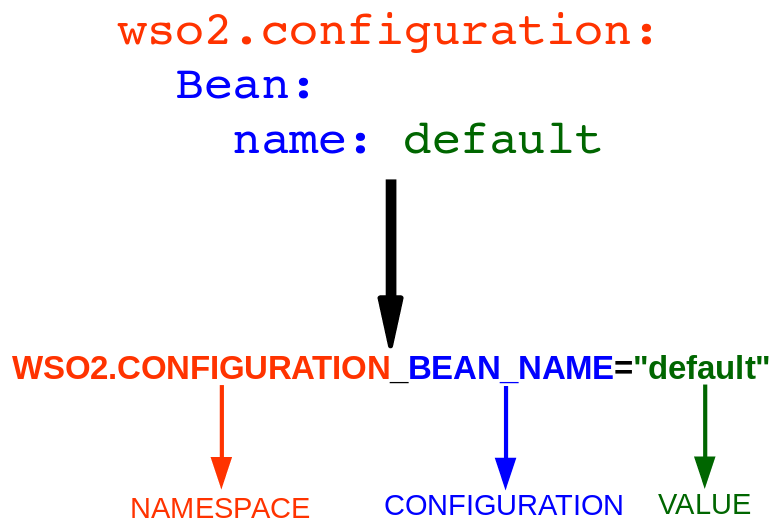
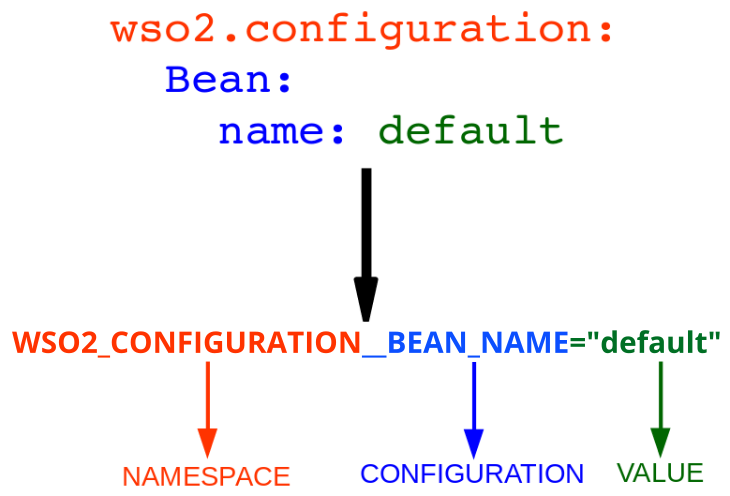
Change the environment variable naming for namespaces. https://github.com/wso2/carbon-config/issues/66

Changed region(s): [[0.0, 0.6351, 0.9945, 0.7258]]

diff --git a/components/org.wso2.carbon.config/src/test/java/org/wso2/carbon/config/configprovider/ConfigProviderImplTest.java b/components/org.wso2.carbon.config/src/test/java/org/wso2/carbon/config/configprovider/ConfigProviderImplTest.java
@@ -53,6 +53,7 @@ public class ConfigProviderImplTest {
     private static final String PASSWORD = "n3wP4s5w0r4";
     private static final String CONFIG_NAMESPACE = "testconfiguration";
     private static final String CONFIG_LEVEL_SEPARATOR = "_";
+    private static final String NAMESPACE_LEVEL_SEPERATOR = "__";
     private static final String UNIQUE_ATTRIBUTE_SPECIFIER = "UNIQUE";
     private SecureVault secureVault;
 
@@ -404,7 +405,7 @@ public class ConfigProviderImplTest {
                         "variables")
     public void yamlConfigOverrideWithEnvVariable() throws ConfigurationException {
         String newTenantName = "NewTenant";
-        String envVariable = CONFIG_NAMESPACE + CONFIG_LEVEL_SEPARATOR + "TENANT";
+        String envVariable = CONFIG_NAMESPACE.toUpperCase() + NAMESPACE_LEVEL_SEPERATOR + "TENANT";
         EnvironmentUtils.setEnvironmentVariables(envVariable, newTenantName);
         ConfigFileReader fileReader = new YAMLBasedConfigFileReader(TestUtils.getResourcePath("conf",
                 "envconfigoverride.yaml").get());
@@ -417,7 +418,7 @@ public class ConfigProviderImplTest {
     @Test(description = "Tests the functionality when deployment configuration is overridden with system properties")
     public void yamlConfigOverrideWithSystemProperty() throws ConfigurationException {
         String newTenantName = "NewTenant";
-        String systemProperty = CONFIG_NAMESPACE + CONFIG_LEVEL_SEPARATOR + "TENANT";
+        String systemProperty = CONFIG_NAMESPACE.toUpperCase() + NAMESPACE_LEVEL_SEPERATOR + "TENANT";
         System.setProperty(systemProperty, newTenantName);
         ConfigFileReader fileReader = new YAMLBasedConfigFileReader(TestUtils.getResourcePath("conf",
                 "envconfigoverride.yaml").get());
@@ -432,7 +433,7 @@ public class ConfigProviderImplTest {
     public void yamlConfigOverrideSystemVarPriorityTest() throws ConfigurationException {
         String systemPropertyTenantName = "SystemPropertyTenant";
         String environmentVariableTenantName = "EnvironmentVariableTenant";
-        String systemVariable = CONFIG_NAMESPACE + CONFIG_LEVEL_SEPARATOR + "TENANT";
+        String systemVariable = CONFIG_NAMESPACE.toUpperCase() + NAMESPACE_LEVEL_SEPERATOR + "TENANT";
 
         EnvironmentUtils.setEnvironmentVariables(systemVariable, environmentVariableTenantName);
         System.setProperty(systemVariable, systemPropertyTenantName);
@@ -453,9 +454,9 @@ public class ConfigProviderImplTest {
         String envVariable1Name = "TestBeanName";
         String envVariable2Name = "ComplexBeanName";
         String envVariable3Name = "ComplexBeanTestBeanName";
-        String envVariable1 = "BASICTESTCONFIGURATION" + CONFIG_LEVEL_SEPARATOR + "TESTBEAN_NAME";
-        String envVariable2 = "BASICTESTCONFIGURATION" + CONFIG_LEVEL_SEPARATOR + "COMPLEXTESTBEAN_NAME";
-        String envVariable3 = "BASICTESTCONFIGURATION" + CONFIG_LEVEL_SEPARATOR + "COMPLEXTESTBEAN_TESTBEAN_NAME";
+        String envVariable1 = "BASICTESTCONFIGURATION" + NAMESPACE_LEVEL_SEPERATOR + "TESTBEAN_NAME";
+        String envVariable2 = "BASICTESTCONFIGURATION" + NAMESPACE_LEVEL_SEPERATOR + "COMPLEXTESTBEAN_NAME";
+        String envVariable3 = "BASICTESTCONFIGURATION" + NAMESPACE_LEVEL_SEPERATOR + "COMPLEXTESTBEAN_TESTBEAN_NAME";
         EnvironmentUtils.setEnvironmentVariables(envVariable1, envVariable1Name);
         EnvironmentUtils.setEnvironmentVariables(envVariable2, envVariable2Name);
         EnvironmentUtils.setEnvironmentVariables(envVariable3, envVariable3Name);
@@ -481,11 +482,16 @@ public class ConfigProviderImplTest {
         String transport1Desc = "Transport 1 description";
         String transport1Password = "password";
 
-        String transport1NameEnv = CONFIG_NAMESPACE + CONFIG_LEVEL_SEPARATOR + "TRANSPORTS_TRANSPORT_0_NAME";
-        String transport1PortEnv = CONFIG_NAMESPACE + CONFIG_LEVEL_SEPARATOR + "TRANSPORTS_TRANSPORT_0_PORT";
-        String transport1SecureEnv = CONFIG_NAMESPACE + CONFIG_LEVEL_SEPARATOR + "TRANSPORTS_TRANSPORT_0_SECURE";
-        String transport1DescEnv = CONFIG_NAMESPACE + CONFIG_LEVEL_SEPARATOR + "TRANSPORTS_TRANSPORT_0_DESC";
-        String transport1PasswordEnv = CONFIG_NAMESPACE + CONFIG_LEVEL_SEPARATOR + "TRANSPORTS_TRANSPORT_0_PASSWORD";
+        String transport1NameEnv = CONFIG_NAMESPACE.toUpperCase() + NAMESPACE_LEVEL_SEPERATOR +
+                "TRANSPORTS_TRANSPORT_0_NAME";
+        String transport1PortEnv = CONFIG_NAMESPACE.toUpperCase() + NAMESPACE_LEVEL_SEPERATOR +
+                "TRANSPORTS_TRANSPORT_0_PORT";
+        String transport1SecureEnv = CONFIG_NAMESPACE.toUpperCase() + NAMESPACE_LEVEL_SEPERATOR +
+                "TRANSPORTS_TRANSPORT_0_SECURE";
+        String transport1DescEnv = CONFIG_NAMESPACE.toUpperCase() + NAMESPACE_LEVEL_SEPERATOR +
+                "TRANSPORTS_TRANSPORT_0_DESC";
+        String transport1PasswordEnv = CONFIG_NAMESPACE.toUpperCase() + NAMESPACE_LEVEL_SEPERATOR +
+                "TRANSPORTS_TRANSPORT_0_PASSWORD";
         EnvironmentUtils.setEnvironmentVariables(transport1NameEnv, transport1Name);
         EnvironmentUtils.setEnvironmentVariables(transport1PortEnv, String.valueOf(transport1Port));
         EnvironmentUtils.setEnvironmentVariables(transport1SecureEnv, transport1Secure);
@@ -496,8 +502,10 @@ public class ConfigProviderImplTest {
         String transport2Name = "pqr";
         String transport2password = "transport2password";
 
-        String transport2NameEnv = CONFIG_NAMESPACE + CONFIG_LEVEL_SEPARATOR + "TRANSPORTS_TRANSPORT_8_NAME";
-        String transport2PasswordEnv = CONFIG_NAMESPACE + CONFIG_LEVEL_SEPARATOR + "TRANSPORTS_TRANSPORT_8_PASSWORD";
+        String transport2NameEnv = CONFIG_NAMESPACE.toUpperCase() + NAMESPACE_LEVEL_SEPERATOR +
+                "TRANSPORTS_TRANSPORT_8_NAME";
+        String transport2PasswordEnv = CONFIG_NAMESPACE.toUpperCase() + NAMESPACE_LEVEL_SEPERATOR +
+                "TRANSPORTS_TRANSPORT_8_PASSWORD";
         EnvironmentUtils.setEnvironmentVariables(transport2NameEnv, transport2Name);
         EnvironmentUtils.setEnvironmentVariables(transport2PasswordEnv, transport2password);
 
@@ -547,7 +555,7 @@ public class ConfigProviderImplTest {
         String invalidEnvVar1 = CONFIG_LEVEL_SEPARATOR;
         String invalidEnvVar2 = CONFIG_NAMESPACE;
         String invalidEnvVar3 = CONFIG_LEVEL_SEPARATOR + CONFIG_NAMESPACE;
-        String invalidEnvVar4 = CONFIG_LEVEL_SEPARATOR + CONFIG_NAMESPACE + CONFIG_LEVEL_SEPARATOR;
+        String invalidEnvVar4 = CONFIG_LEVEL_SEPARATOR + CONFIG_NAMESPACE.toUpperCase() + CONFIG_LEVEL_SEPARATOR;
         String invalidEnvVar5 = CONFIG_LEVEL_SEPARATOR + CONFIG_LEVEL_SEPARATOR + CONFIG_LEVEL_SEPARATOR;
         String invalidEnvVar6 = CONFIG_LEVEL_SEPARATOR + CONFIG_LEVEL_SEPARATOR + "config";
 
@@ -574,9 +582,10 @@ public class ConfigProviderImplTest {
     @Test(description = "Tests invalid fields in environment variable")
     public void envInvalidFieldTest() throws ConfigurationException {
         boolean isExceptionOccurred = false;
-        String transportNameEnv = CONFIG_NAMESPACE + CONFIG_LEVEL_SEPARATOR + "TRANSPORTS_TRANSPORT_0_NAME";
-        String transportInvalidAttributeEnv = CONFIG_NAMESPACE + CONFIG_LEVEL_SEPARATOR +
-                                              "TRANSPORTS_TRANSPORT_0_INVALIDATTRIBUTE";
+        String transportNameEnv = CONFIG_NAMESPACE.toUpperCase() + NAMESPACE_LEVEL_SEPERATOR +
+                "TRANSPORTS_TRANSPORT_0_NAME";
+        String transportInvalidAttributeEnv = CONFIG_NAMESPACE.toUpperCase() + NAMESPACE_LEVEL_SEPERATOR +
+                "TRANSPORTS_TRANSPORT_0_INVALIDATTRIBUTE";
 
         EnvironmentUtils.setEnvironmentVariables(transportNameEnv, "abc");
         EnvironmentUtils.setEnvironmentVariables(transportInvalidAttributeEnv, "INVALID");
@@ -603,9 +612,10 @@ public class ConfigProviderImplTest {
     @Test(description = "Tests expected exception when an invalid value is set to a field")
     public void envFieldValueCastExceptionTest() throws ConfigurationException {
         boolean isExceptionOccurred = false;
-        String transportNameEnv = CONFIG_NAMESPACE + CONFIG_LEVEL_SEPARATOR + "TRANSPORTS_TRANSPORT_0_NAME";
-        String transportInvalidPortEnv = CONFIG_NAMESPACE + CONFIG_LEVEL_SEPARATOR +
-                                         "TRANSPORTS_TRANSPORT_0_PORT";
+        String transportNameEnv = CONFIG_NAMESPACE.toUpperCase() + NAMESPACE_LEVEL_SEPERATOR +
+                "TRANSPORTS_TRANSPORT_0_NAME";
+        String transportInvalidPortEnv = CONFIG_NAMESPACE.toUpperCase() + NAMESPACE_LEVEL_SEPERATOR +
+                "TRANSPORTS_TRANSPORT_0_PORT";
 
         EnvironmentUtils.setEnvironmentVariables(transportNameEnv, "abc");
         EnvironmentUtils.setEnvironmentVariables(transportInvalidPortEnv, "INVALID");
@@ -631,7 +641,8 @@ public class ConfigProviderImplTest {
     @Test(description = "Tests setting array element value failure when the unique element is not located")
     public void envArrayNoUniqueElementTest() {
         boolean isExceptionOccurred = false;
-        String transportPortEnv = CONFIG_NAMESPACE + CONFIG_LEVEL_SEPARATOR + "TRANSPORTS_TRANSPORT_0_PORT";
+        String transportPortEnv = CONFIG_NAMESPACE.toUpperCase() + NAMESPACE_LEVEL_SEPERATOR +
+                "TRANSPORTS_TRANSPORT_0_PORT";
 
         EnvironmentUtils.setEnvironmentVariables(transportPortEnv, "INVALID");
 
@@ -644,9 +655,8 @@ public class ConfigProviderImplTest {
         } catch (ConfigurationException e) {
             isExceptionOccurred = true;
             Assert.assertEquals(e.getMessage(), "Locating unique system variable key for system variable " +
-                                                transportPortEnv + " from default attributes [ID, NAME] failed. " +
-                                                "Custom unique system variable key testconfiguration_TRANSPORTS_" +
-                                                "TRANSPORT_UNIQUE is not specified as well.");
+                    transportPortEnv + " from default attributes [ID, NAME] failed. " + "Custom unique system " +
+                    "variable key TESTCONFIGURATION__TRANSPORTS_" + "TRANSPORT_UNIQUE is not specified as well.");
         } finally {
             EnvironmentUtils.unsetEnvironmentVariables(transportPortEnv);
         }
@@ -661,9 +671,9 @@ public class ConfigProviderImplTest {
         String name = "abc";
         int id = 2;
         int port = 5005;
-        String uniqueEnvName = "PRIORITYTESTCONFIGURATION_TESTBEANS_TESTBEANLIST_0_NAME";
-        String uniqueEnvId = "PRIORITYTESTCONFIGURATION_TESTBEANS_TESTBEANLIST_0_ID";
-        String portEnv = "PRIORITYTESTCONFIGURATION_TESTBEANS_TESTBEANLIST_0_PORT";
+        String uniqueEnvName = "PRIORITYTESTCONFIGURATION__TESTBEANS_TESTBEANLIST_0_NAME";
+        String uniqueEnvId = "PRIORITYTESTCONFIGURATION__TESTBEANS_TESTBEANLIST_0_ID";
+        String portEnv = "PRIORITYTESTCONFIGURATION__TESTBEANS_TESTBEANLIST_0_PORT";
 
         EnvironmentUtils.setEnvironmentVariables(uniqueEnvName, name);
         EnvironmentUtils.setEnvironmentVariables(uniqueEnvId, String.valueOf(id));
@@ -692,10 +702,10 @@ public class ConfigProviderImplTest {
         String uniqueElement = "abc";
         int port = 5005;
         String uniqueEnvName =
-                "UNIQUEELEMENTTESTCONFIGURATION_UNIQUEELEMENTTESTBEANS_UNIQUEELEMENTTESTBEANLIST_0_UNIQUEELEMENT";
+                "UNIQUEELEMENTTESTCONFIGURATION__UNIQUEELEMENTTESTBEANS_UNIQUEELEMENTTESTBEANLIST_0_UNIQUEELEMENT";
         String portEnv =
-                "UNIQUEELEMENTTESTCONFIGURATION_UNIQUEELEMENTTESTBEANS_UNIQUEELEMENTTESTBEANLIST_0_PORT";
-        String customUniqueEnv = "UNIQUEELEMENTTESTCONFIGURATION_UNIQUEELEMENTTESTBEANS_UNIQUEELEMENTTESTBEANLIST_" +
+                "UNIQUEELEMENTTESTCONFIGURATION__UNIQUEELEMENTTESTBEANS_UNIQUEELEMENTTESTBEANLIST_0_PORT";
+        String customUniqueEnv = "UNIQUEELEMENTTESTCONFIGURATION__UNIQUEELEMENTTESTBEANS_UNIQUEELEMENTTESTBEANLIST_" +
                                  UNIQUE_ATTRIBUTE_SPECIFIER;
 
         EnvironmentUtils.setEnvironmentVariables(uniqueEnvName, uniqueElement);
@@ -727,10 +737,10 @@ public class ConfigProviderImplTest {
         String uniqueElement = "abc";
         int port = 5005;
         String uniqueVarName =
-                "UNIQUEELEMENTTESTCONFIGURATION_UNIQUEELEMENTTESTBEANS_UNIQUEELEMENTTESTBEANLIST_0_UNIQUEELEMENT";
+                "UNIQUEELEMENTTESTCONFIGURATION__UNIQUEELEMENTTESTBEANS_UNIQUEELEMENTTESTBEANLIST_0_UNIQUEELEMENT";
         String portVar =
-                "UNIQUEELEMENTTESTCONFIGURATION_UNIQUEELEMENTTESTBEANS_UNIQUEELEMENTTESTBEANLIST_0_PORT";
-        String customUniqueVar = "UNIQUEELEMENTTESTCONFIGURATION_UNIQUEELEMENTTESTBEANS_UNIQUEELEMENTTESTBEANLIST_" +
+                "UNIQUEELEMENTTESTCONFIGURATION__UNIQUEELEMENTTESTBEANS_UNIQUEELEMENTTESTBEANLIST_0_PORT";
+        String customUniqueVar = "UNIQUEELEMENTTESTCONFIGURATION__UNIQUEELEMENTTESTBEANS_UNIQUEELEMENTTESTBEANLIST_" +
                                  UNIQUE_ATTRIBUTE_SPECIFIER;
 
         EnvironmentUtils.setEnvironmentVariables(uniqueVarName, uniqueElement);
@@ -757,6 +767,23 @@ public class ConfigProviderImplTest {
         EnvironmentUtils.unsetEnvironmentVariables(portVar);
         EnvironmentUtils.unsetEnvironmentVariables(customUniqueVar);
         System.clearProperty(customUniqueVar);
+    }
+
+    @Test(description = "Tests the functionality when deployment configuration is overridden with environment " +
+            "variables with complex namespace")
+    public void yamlConfigOverrideWithComplexNameSpaceEnvVariable() throws ConfigurationException {
+        String newTenantName = "NewTenant";
+        String envVariable = "WSO2_TEST_CONFIG" + NAMESPACE_LEVEL_SEPERATOR + "TENANT";
+        String envVariable2 = "WSO2_TEST" + NAMESPACE_LEVEL_SEPERATOR + "TENANT";
+        EnvironmentUtils.setEnvironmentVariables(envVariable, newTenantName);
+        EnvironmentUtils.setEnvironmentVariables(envVariable2, "abc");
+        ConfigFileReader fileReader = new YAMLBasedConfigFileReader(TestUtils.getResourcePath("conf",
+                "complexnamespaceconfig.yaml").get());
+        ConfigProvider configProvider = new ConfigProviderImpl(fileReader, secureVault);
+        ComplexNameSpaceConfiguration configurations = configProvider.getConfigurationObject
+                (ComplexNameSpaceConfiguration.class);
+        Assert.assertEquals(configurations.getTenant(), newTenantName);
+        EnvironmentUtils.unsetEnvironmentVariables(envVariable);
     }
 
     /**

diff --git a/components/org.wso2.carbon.config/src/main/java/org/wso2/carbon/config/provider/ConfigProviderImpl.java b/components/org.wso2.carbon.config/src/main/java/org/wso2/carbon/config/provider/ConfigProviderImpl.java
@@ -56,6 +56,9 @@ import javax.lang.model.SourceVersion;
 public class ConfigProviderImpl implements ConfigProvider {
     private static final Logger logger = LoggerFactory.getLogger(ConfigProviderImpl.class.getName());
     private static final String CONFIG_LEVEL_SEPARATOR = "_";
+    private static final String NAMESPACE_LEVEL_SEPERATOR = "__";
+    private static final String CONFIG_NAMESPACE_WORD_SEPERATOR = ".";
+
     private static final int CONFIG_MIN_ELEMENT_COUNT = 2;
     private static final String[] UNIQUE_ATTRIBUTE_NAMES = {"ID", "NAME"};
     private static final String UNIQUE_ATTRIBUTE_SPECIFIER = "UNIQUE";
@@ -186,16 +189,24 @@ public class ConfigProviderImpl implements ConfigProvider {
         // Filter 2: Check if the key format is correct
         // Filter 3: Check if the configuration is not empty
         // Filter 4: Ignore unique identification specifiers
-        return variables.entrySet().stream()
-                .filter(entry -> entry.getKey().toUpperCase()
-                        .startsWith(namespace.toUpperCase() + CONFIG_LEVEL_SEPARATOR))
-                .filter(entry -> (entry.getKey().split(CONFIG_LEVEL_SEPARATOR, CONFIG_MIN_ELEMENT_COUNT)
-                                          .length == CONFIG_MIN_ELEMENT_COUNT))
-                .filter(entry -> (!entry.getKey().split(CONFIG_LEVEL_SEPARATOR, CONFIG_MIN_ELEMENT_COUNT)[1]
-                                          .trim().isEmpty()))
-                .filter(entry -> (!entry.getKey().split(CONFIG_LEVEL_SEPARATOR, CONFIG_MIN_ELEMENT_COUNT)[1]
-                        .toUpperCase().endsWith(UNIQUE_ATTRIBUTE_SPECIFIER.toUpperCase())))
-                .collect(Collectors.toMap(Map.Entry::getKey, Map.Entry::getValue, (a, b) -> a, HashMap::new));
+        HashMap<String, String> filteredVariableMap = new HashMap<>();
+        variables.entrySet().forEach((Map.Entry<String, String> entry) -> {
+            String environmentVariableNameSpacePart = namespace.toUpperCase().replace
+                    (CONFIG_NAMESPACE_WORD_SEPERATOR, CONFIG_LEVEL_SEPARATOR) + NAMESPACE_LEVEL_SEPERATOR;
+            if (entry.getKey().toUpperCase().startsWith(environmentVariableNameSpacePart)) {
+                String[] splicedEnvironmentVariableParts = entry.getKey().split(environmentVariableNameSpacePart,
+                        CONFIG_MIN_ELEMENT_COUNT);
+                if (splicedEnvironmentVariableParts.length == CONFIG_MIN_ELEMENT_COUNT) {
+                    if ((!splicedEnvironmentVariableParts[1].trim().isEmpty())) {
+                        if ((!splicedEnvironmentVariableParts[1].toUpperCase().endsWith(UNIQUE_ATTRIBUTE_SPECIFIER
+                                .toUpperCase()))) {
+                            filteredVariableMap.putIfAbsent(entry.getKey(), entry.getValue());
+                        }
+                    }
+                }
+            }
+        });
+        return filteredVariableMap;
     }
 
     /**
@@ -239,13 +250,14 @@ public class ConfigProviderImpl implements ConfigProvider {
 
         for (Map.Entry<String, String> entry : systemVariables.entrySet()) {
             String systemVarKey = entry.getKey();
-            String configKey = systemVarKey.split(CONFIG_LEVEL_SEPARATOR, CONFIG_MIN_ELEMENT_COUNT)[1];
+            String environmentVariableNameSpacePart = namespace.toUpperCase(Locale.ENGLISH).replace
+                    (CONFIG_NAMESPACE_WORD_SEPERATOR, CONFIG_LEVEL_SEPARATOR) + NAMESPACE_LEVEL_SEPERATOR;
+            String configKey = systemVarKey.split(environmentVariableNameSpacePart)[1];
             String value = entry.getValue();
 
             List<String> configKeyElements = new ArrayList<>(Arrays.asList(configKey.split(CONFIG_LEVEL_SEPARATOR)));
             overrideConfigWithSystemVariable(configClass, null, configKeyElements, value, systemVarKey);
-        }
-        return configClass;
+        } return configClass;
     }
 
     /**

diff --git a/components/org.wso2.carbon.config/src/test/java/org/wso2/carbon/config/configprovider/ComplexNameSpaceConfiguration.java b/components/org.wso2.carbon.config/src/test/java/org/wso2/carbon/config/configprovider/ComplexNameSpaceConfiguration.java
@@ -1,0 +1,55 @@
+/*
+ *  Copyright (c) 2018, WSO2 Inc. (http://www.wso2.org) All Rights Reserved.
+ *
+ *  WSO2 Inc. licenses this file to you under the Apache License,
+ *  Version 2.0 (the "License"); you may not use this file except
+ *  in compliance with the License.
+ *  You may obtain a copy of the License at
+ *
+ *  http://www.apache.org/licenses/LICENSE-2.0
+ *
+ *  Unless required by applicable law or agreed to in writing,
+ *  software distributed under the License is distributed on an
+ *  "AS IS" BASIS, WITHOUT WARRANTIES OR CONDITIONS OF ANY
+ *  KIND, either express or implied.  See the License for the
+ *  specific language governing permissions and limitations
+ *  under the License.
+ *
+ */
+package org.wso2.carbon.config.configprovider;
+
+import org.wso2.carbon.config.annotation.Configuration;
+
+import javax.xml.bind.annotation.XmlElement;
+import javax.xml.bind.annotation.XmlRootElement;
+
+/**
+ * Sample configuration class for testing purposes.
+ *
+ * @since 1.0.0
+ */
+@XmlRootElement(name = "testconfiguration")
+@Configuration(namespace = "wso2.test.config", description = "Test Configurations Bean")
+public class ComplexNameSpaceConfiguration {
+
+    private String tenant = "default";
+    private Transports transports = new Transports();
+
+    @XmlElement
+    public void setTenant(String tenant) {
+        this.tenant = tenant;
+    }
+
+    public String getTenant() {
+        return tenant;
+    }
+
+    @XmlElement
+    public void setTransports(Transports transports) {
+        this.transports = transports;
+    }
+
+    public Transports getTransports() {
+        return transports;
+    }
+}

diff --git a/docs/ConfigurationsViaEnvironmentVariables.md b/docs/ConfigurationsViaEnvironmentVariables.md
@@ -35,8 +35,8 @@ wso2.configuration:
 The above configuration can be represented with the below environment variables / system properties:
 
 ```bash
-WSO2.CONFIGURATION_COMPLEXTESTBEAN_NAME="default"
-WSO2.CONFIGURATION_COMPLEXTESTBEAN_BEAN_NAME="default"
+WSO2_CONFIGURATION__COMPLEXTESTBEAN_NAME="default"
+WSO2_CONFIGURATION__COMPLEXTESTBEAN_BEAN_NAME="default"
 ```
 
 Where,
